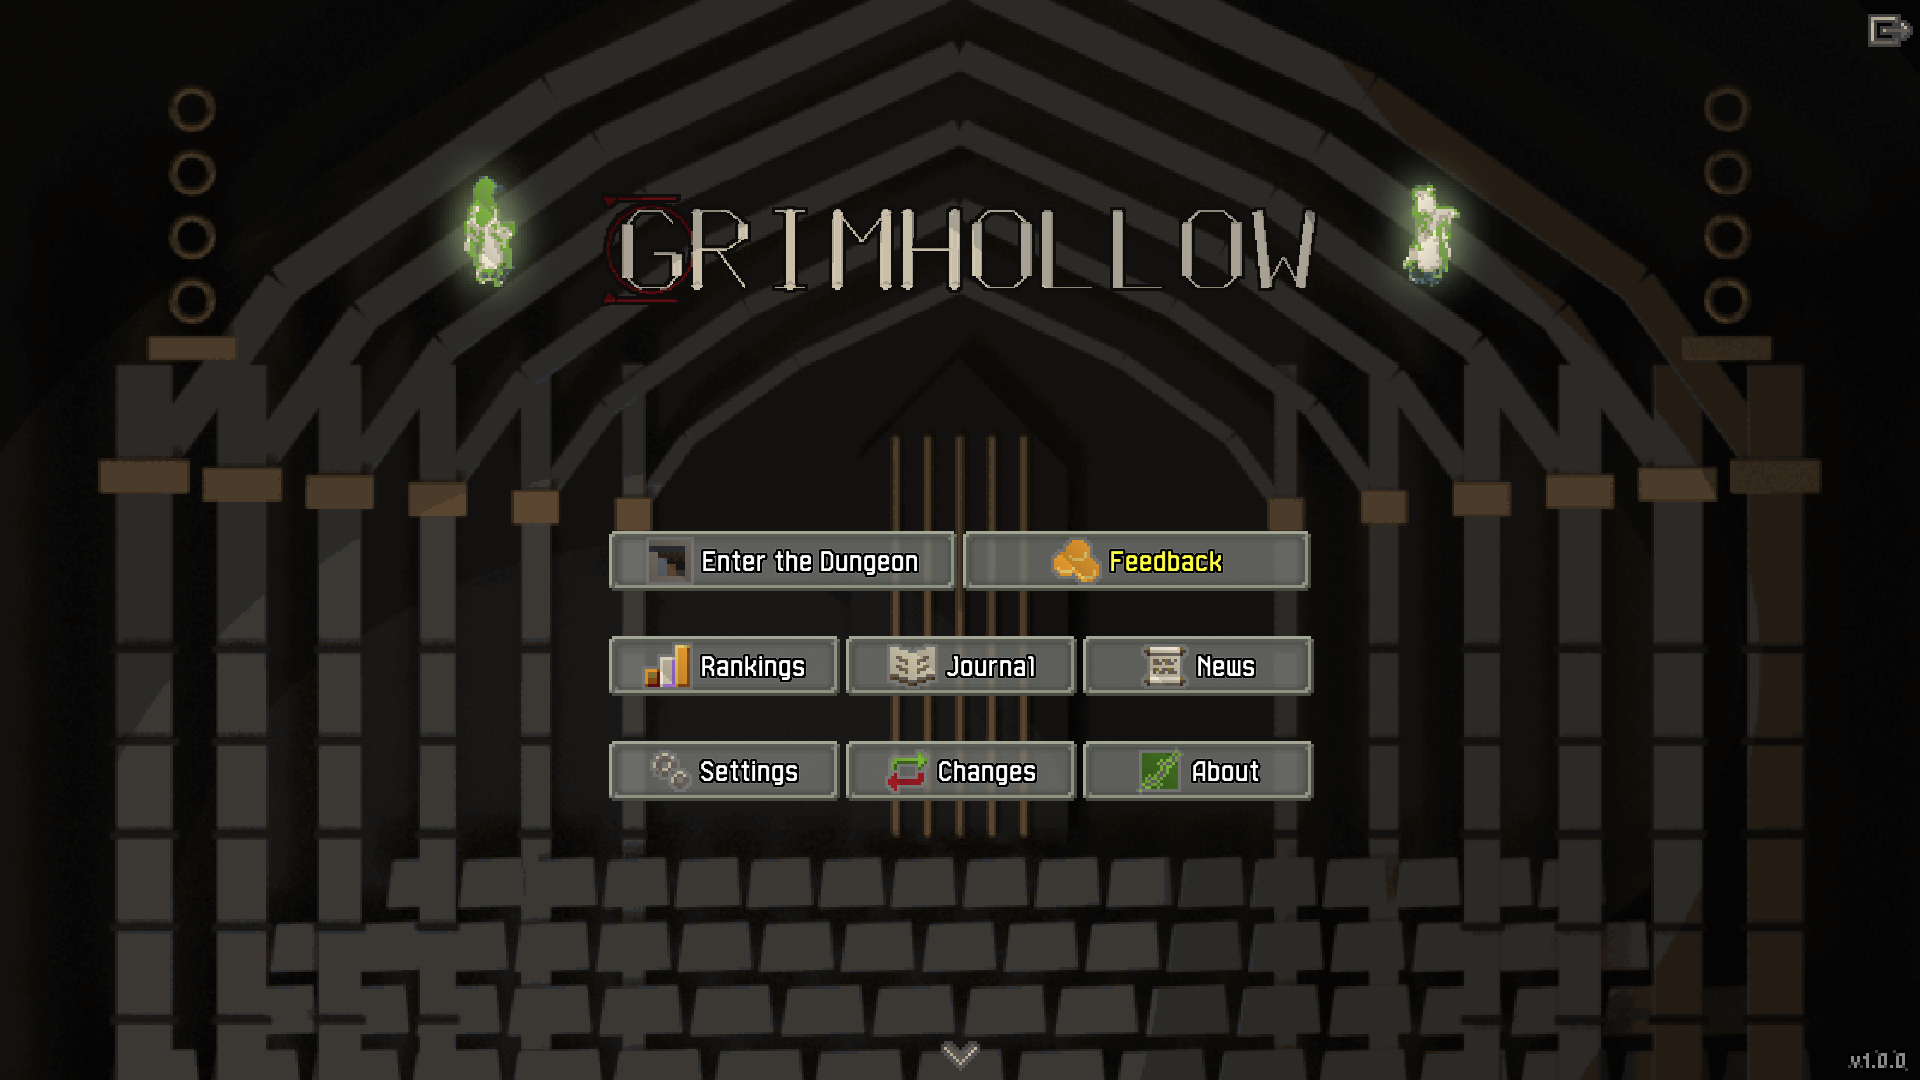
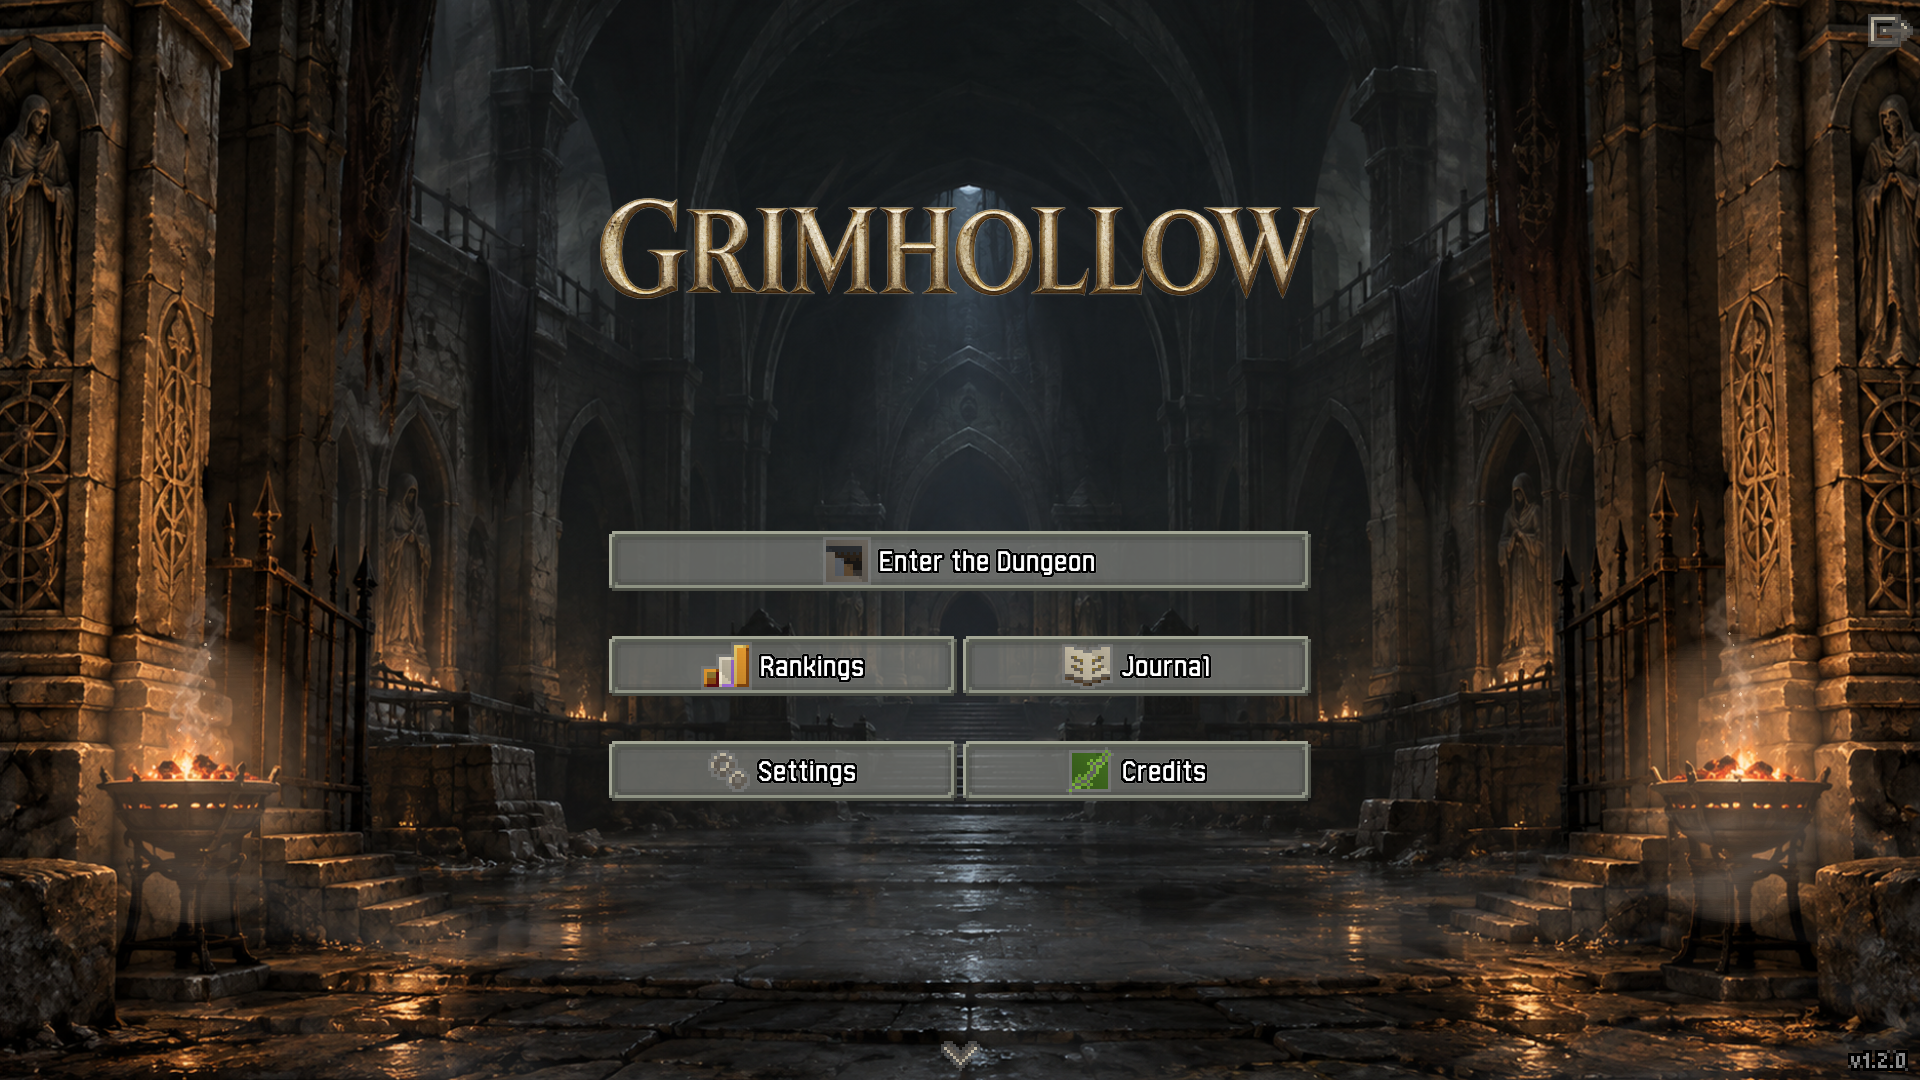
Paint and animate the crypt title screen with mist and braziers

diff --git a/core/src/main/java/com/shatteredpixel/shatteredpixeldungeon/ui/TitleBackground.java b/core/src/main/java/com/shatteredpixel/shatteredpixeldungeon/ui/TitleBackground.java
@@ -1,16 +1,68 @@
 // SPDX-License-Identifier: GPL-3.0-or-later
 package com.shatteredpixel.shatteredpixeldungeon.ui;
+
+import com.badlogic.gdx.graphics.GL20;
+import com.watabou.noosa.Game;
+import com.watabou.noosa.Halo;
 import com.watabou.noosa.Image;
 import com.watabou.noosa.ui.Component;
-/** Fixed painted composition; logical UI dimensions remain independent of the texture. */
+
+/** Presentation-only motion. Never consumes the dungeon's random generator. */
 public class TitleBackground extends Component {
     public static float SCROLL_SPEED = 15f;
     public static void reset() {}
+    private final Image painting;
+    private final Image[] mist = new Image[2];
+    private final Halo[] braziers = new Halo[2];
+    private final Halo[] embers = new Halo[24];
+    private float time;
+
     public TitleBackground(int width, int height) {
         this.width=width; this.height=height;
-        Image image=new Image("interfaces/title_grimhollow.png");
-        float scale=Math.max(width/image.width, height/image.height);
-        image.scale.set(scale); image.x=(width-image.width())/2; image.y=(height-image.height())/2;
-        add(image);
+        painting=new Image("interfaces/title_grimhollow.png");
+        painting.texture.filter(GL20.GL_LINEAR,GL20.GL_LINEAR);
+        painting.scale.set(Math.max(width/painting.width,height/painting.height)*1.025f);
+        add(painting);
+        for(int i=0;i<2;i++) {
+            braziers[i]=new Halo(width*.075f,0xFF9D4D,.22f);
+            add(braziers[i]);
+            mist[i]=new Image("interfaces/title_mist.png");
+            mist[i].texture.filter(GL20.GL_LINEAR,GL20.GL_LINEAR);
+            mist[i].logicalSize(width*1.25f,height*.3f);
+            mist[i].flipHorizontal=i==1;
+            add(mist[i]);
+        }
+        for(int i=0;i<embers.length;i++) {
+            embers[i]=new Halo(.35f+(i%3)*.12f,0xFFD49B,.5f);
+            add(embers[i]);
+        }
+        animate();
+    }
+
+    @Override public void update() {
+        super.update();
+        time+=Game.elapsed;
+        animate();
+    }
+
+    private void animate() {
+        painting.x=(width-painting.width())/2+(float)Math.sin(time*.12f)*width*.006f;
+        painting.y=(height-painting.height())/2+(float)Math.cos(time*.09f)*height*.003f;
+        for(int i=0;i<2;i++) {
+            float bx=painting.x+painting.width()*(i==0?.108f:.893f);
+            float by=painting.y+painting.height()*.713f;
+            braziers[i].point(bx,by);
+            braziers[i].alpha(.2f+.035f*(float)Math.sin(time*9.1f+i*2)+.025f*(float)Math.sin(time*16.3f+i));
+            mist[i].x=-width*.15f+(float)Math.sin(time*.065f+i*2)*width*.13f;
+            mist[i].y=height*(.64f+i*.14f)+(float)Math.sin(time*.09f+i)*height*.02f;
+            mist[i].alpha(.055f+.02f*(float)Math.sin(time*.17f+i*2));
+        }
+        for(int i=0;i<embers.length;i++) {
+            float progress=(time*(.09f+(i%4)*.009f)+i*.618034f)%1f;
+            float bx=painting.x+painting.width()*(i%2==0?.108f:.893f);
+            float by=painting.y+painting.height()*.713f;
+            embers[i].point(bx+(float)Math.sin(i*2.7f+progress*5)*width*.01f,by-progress*height*.19f);
+            embers[i].alpha((float)Math.sin(progress*Math.PI)*.75f);
+        }
     }
 }

diff --git a/core/src/main/java/com/shatteredpixel/shatteredpixeldungeon/scenes/TitleScene.java b/core/src/main/java/com/shatteredpixel/shatteredpixeldungeon/scenes/TitleScene.java
@@ -28,8 +28,6 @@ import com.shatteredpixel.shatteredpixeldungeon.Dungeon;
 import com.shatteredpixel.shatteredpixeldungeon.GamesInProgress;
 import com.shatteredpixel.shatteredpixeldungeon.SPDSettings;
 import com.shatteredpixel.shatteredpixeldungeon.ShatteredPixelDungeon;
-import com.shatteredpixel.shatteredpixeldungeon.effects.BannerSprites;
-import com.shatteredpixel.shatteredpixeldungeon.effects.Fireball;
 import com.shatteredpixel.shatteredpixeldungeon.messages.Languages;
 import com.shatteredpixel.shatteredpixeldungeon.messages.Messages;
 import com.shatteredpixel.shatteredpixeldungeon.services.news.News;
@@ -64,9 +62,6 @@ import java.util.Date;
 public class TitleScene extends PixelScene {
 
 	private Image title;
-	private Fireball leftFB;
-	private Fireball rightFB;
-	private Image signs;
 
 	private StyledButton btnPlay;
 	private StyledButton btnRankings;
@@ -101,7 +96,10 @@ public class TitleScene extends PixelScene {
 		w -= insets.left + insets.right;
 		h -= insets.top + insets.bottom;
 
-		title = BannerSprites.get( landscape() ? BannerSprites.Type.TITLE_LAND : BannerSprites.Type.TITLE_PORT);
+		title = new Image("interfaces/title_wordmark.png");
+        title.texture.filter(com.badlogic.gdx.graphics.GL20.GL_LINEAR, com.badlogic.gdx.graphics.GL20.GL_LINEAR);
+        float titleWidth=Math.min(w*.82f,240f);
+        title.logicalSize(titleWidth,titleWidth*144f/1024f);
 		add( title );
 
 		float topRegion = Math.max(title.height - 6, h*0.45f);
@@ -110,34 +108,6 @@ public class TitleScene extends PixelScene {
 		title.y = insets.top + 2 + (topRegion - title.height()) / 2f;
 
 		align(title);
-
-		if (landscape()){
-			leftFB = placeTorch(Math.max(32, title.x - 36), title.y + 55);
-			rightFB = placeTorch(Math.min(w - 32, title.x + title.width + 36), title.y + 55);
-		} else {
-			leftFB = placeTorch(title.x + 16, title.y + 110);
-			rightFB = placeTorch(title.x + title.width - 16, title.y + 110);
-		}
-
-		signs = new Image(BannerSprites.get( landscape() ? BannerSprites.Type.TITLE_GLOW_LAND : BannerSprites.Type.TITLE_GLOW_PORT)){
-			private float time = 0;
-			@Override
-			public void update() {
-				super.update();
-				am = Math.max(0f, (float)Math.sin( time += Game.elapsed ));
-				am = Math.min(am, title.am);
-				if (time >= 1.5f*Math.PI) time = 0;
-			}
-			@Override
-			public void draw() {
-				Blending.setLightMode();
-				super.draw();
-				Blending.setNormalMode();
-			}
-		};
-		signs.x = title.x + (title.width() - signs.width())/2f;
-		signs.y = title.y;
-		add( signs );
 
 		final Chrome.Type GREY_TR = Chrome.Type.GREY_BUTTON_TR;
 		
@@ -281,9 +251,6 @@ public class TitleScene extends PixelScene {
 		float alpha = GameMath.gate(0f, uiAlpha, 1f);
 
 		title.am = alpha;
-		leftFB.am = alpha;
-		rightFB.am = alpha;
-		//signs.am = alpha; handles this itself
 
 		btnPlay.enable(alpha != 0);
 		btnRankings.enable(alpha != 0);
@@ -304,16 +271,6 @@ public class TitleScene extends PixelScene {
 			btnExit.icon().alpha(alpha);
 		}
 
-	}
-
-	private Fireball placeTorch(float x, float y ) {
-		Fireball fb = new Fireball();
-		fb.x = x - fb.width()/2f;
-		fb.y = y - fb.height();
-
-		align(fb);
-		add( fb );
-		return fb;
 	}
 
 	private static class SettingsButton extends StyledButton {

diff --git a/tools/painted/title.py b/tools/painted/title.py
@@ -1,0 +1,13 @@
+"""Package the painted menu composition; animation lives only in TitleBackground."""
+from pathlib import Path
+from PIL import Image
+HERE=Path(__file__).resolve().parent
+
+def outputs():
+    background=Image.open(HERE/'sources/title-crypt.png').convert('RGBA').resize((1920,1080),Image.Resampling.LANCZOS)
+    wordmark=Image.open(HERE/'sources/title-wordmark.png').convert('RGBA')
+    wordmark=wordmark.crop(wordmark.getchannel('A').point(lambda a:255 if a>=16 else 0).getbbox())
+    wordmark=wordmark.resize((1024,144),Image.Resampling.LANCZOS)
+    mist=Image.open(HERE/'sources/title-mist.png').convert('RGBA').resize((1024,342),Image.Resampling.LANCZOS)
+    if mist.getchannel('A').getextrema()[0]!=0:raise ValueError('Title mist requires genuine alpha')
+    return {'interfaces/title_grimhollow.png':background,'interfaces/title_wordmark.png':wordmark,'interfaces/title_mist.png':mist}

diff --git a/tools/painted/pack.py b/tools/painted/pack.py
@@ -180,6 +180,8 @@ def outputs():
     result.update(actors())
     from inventory import outputs as inventory
     result.update(inventory())
+    from title import outputs as title
+    result.update(title())
     return result
 
 
@@ -194,6 +196,7 @@ def main():
     manifest={'base':BASE,'layout':LAYOUT,'source_sha256':sources,'assets':{}}
     for path,im in built.items():
         expected=(512,1088) if path=='sprites/items.png' else (1024,512) if path.startswith('sprites/hero_') else (512,512) if '/water' in path else (256,512) if '/raised_terrain' in path else (1024,1024)
+        expected={'interfaces/title_grimhollow.png':(1920,1080),'interfaces/title_wordmark.png':(1024,144),'interfaces/title_mist.png':(1024,342)}.get(path,expected)
         assert im.size==expected,path
         manifest['assets'][path]={'size':list(im.size),'rgba_sha256':digest(im)}
         target=ASSETS/path

diff --git a/CHANGES.md b/CHANGES.md
@@ -2,6 +2,8 @@
 
 Upstream history retained; branch `grimhollow`. Each changed path is listed below.
 
+- The main menu now uses an original painted crypt and ivory-metal wordmark with slow camera drift, layered mist, warm brazier flicker and rising embers. Animation uses scene-local elapsed time and no gameplay random calls; all five handlers and the fade control are retained.
+
 - Door/grass review: matching painted door states replace the mixed legacy door family in all five regions; sideways thresholds now contain floor rather than a duplicate closed leaf, and wall-cap masks retain their existing geometry. The new request supersedes the old approved-door lock, while wall torches stay unchanged.
 - Tall, Huntress-rustled and trampled vegetation now use distinct upright, parted and flattened silhouettes in the existing terrain, feature and foreground slots. Growth height extends into the existing upper layer; no terrain flags, drops, visibility rules or Huntress effects change.
 
